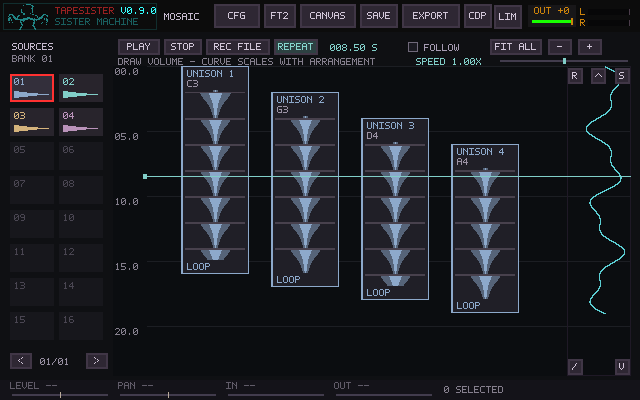
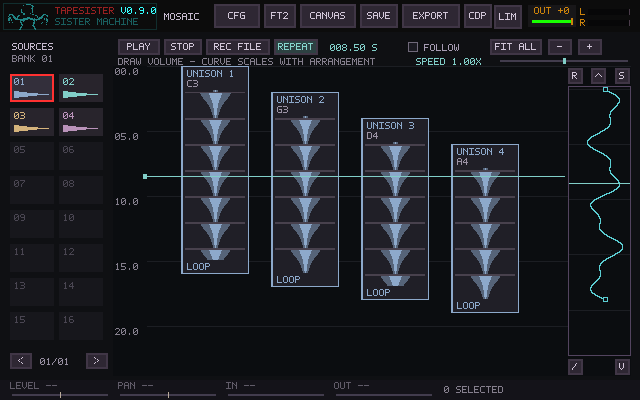
Keep Mosaic envelope endpoints clear of tool buttons

diff --git a/include/tapesister/ui.h b/include/tapesister/ui.h
@@ -660,8 +660,12 @@ enum {
     TS_MOSAIC_MIX_X = 10, TS_MOSAIC_MIX_STEP = 108, TS_MOSAIC_MIX_W = 100,
     TS_MOSAIC_CANVAS_RIGHT = 565,
     TS_MOSAIC_ENV_X = 568, TS_MOSAIC_ENV_RIGHT = 630,
+    TS_MOSAIC_ENV_TOP = 86, TS_MOSAIC_ENV_BOTTOM = 355,
+    TS_MOSAIC_ENV_PAD = 3,
     TS_MOSAIC_MIX_Y = 380, TS_MOSAIC_SPEED_X = 500, TS_MOSAIC_SPEED_W = 128
 };
+double ts_ui_mosaic_volume_y(const TsUiState *ui, double time);
+double ts_ui_mosaic_volume_time(const TsUiState *ui, double y);
 void ts_ui_render_mosaic_choice(TsFramebuffer *fb, const TsUiState *ui);
 void ts_ui_render(TsFramebuffer *fb, const TsUiState *ui, const TsInstrument *instrument);
 int ts_ui_foreground_panel_open(const TsUiState *ui);

diff --git a/docs/MOSAIC.md b/docs/MOSAIC.md
@@ -106,6 +106,11 @@ extrema at their displayed width. None of this analysis runs in the audio callba
 
 The narrow lane at the right follows the arrangement timeline vertically.
 **Left-click and drag** to draw volume: left is silence, right is full level.
+The curve has its own border, with every tool button outside it. Small square
+handles mark the start and end when visible; drag sideways at either endpoint
+to set its exact level. **FIT ALL** reveals both endpoints. The lane fits the
+same visible time range into its smaller drawing area and has its own time
+guides and playhead marker, keeping the curve clear of the buttons.
 The envelope is multiplied with event levels and fades before Mosaic enters its
 normal effects/recording route. Live curve changes receive a short gain slew.
 
@@ -127,6 +132,8 @@ the beginning; drawing either endpoint then moves both. This prevents a gain
 jump caused by the envelope at wraparound. Audio content still needs its normal
 loop fades/crossfades. With Repeat on, a straight ramp between the equal endpoints
 is flat; turn Repeat off to draw an unequal start-to-end ramp.
+The status message explains when Repeat already links the endpoints or a ramp
+is flat because the endpoint levels are equal.
 
 Each stroke or tool action is one undo step. **Escape** cancels a stroke, and
 Ctrl+Z / Ctrl+Y undo and redo it. The curve saves in Mosaic format 4; older
